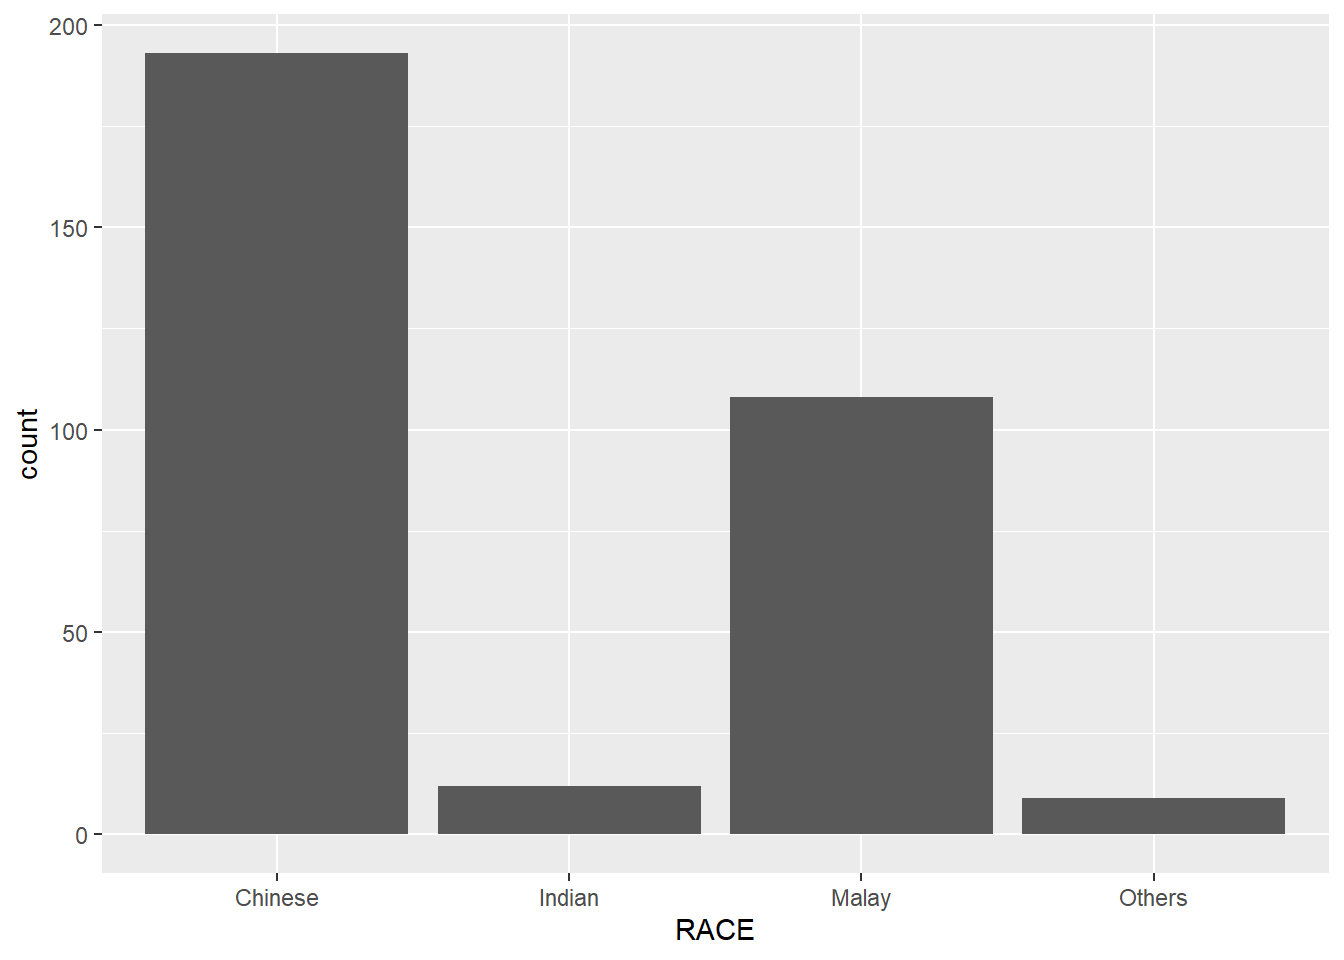
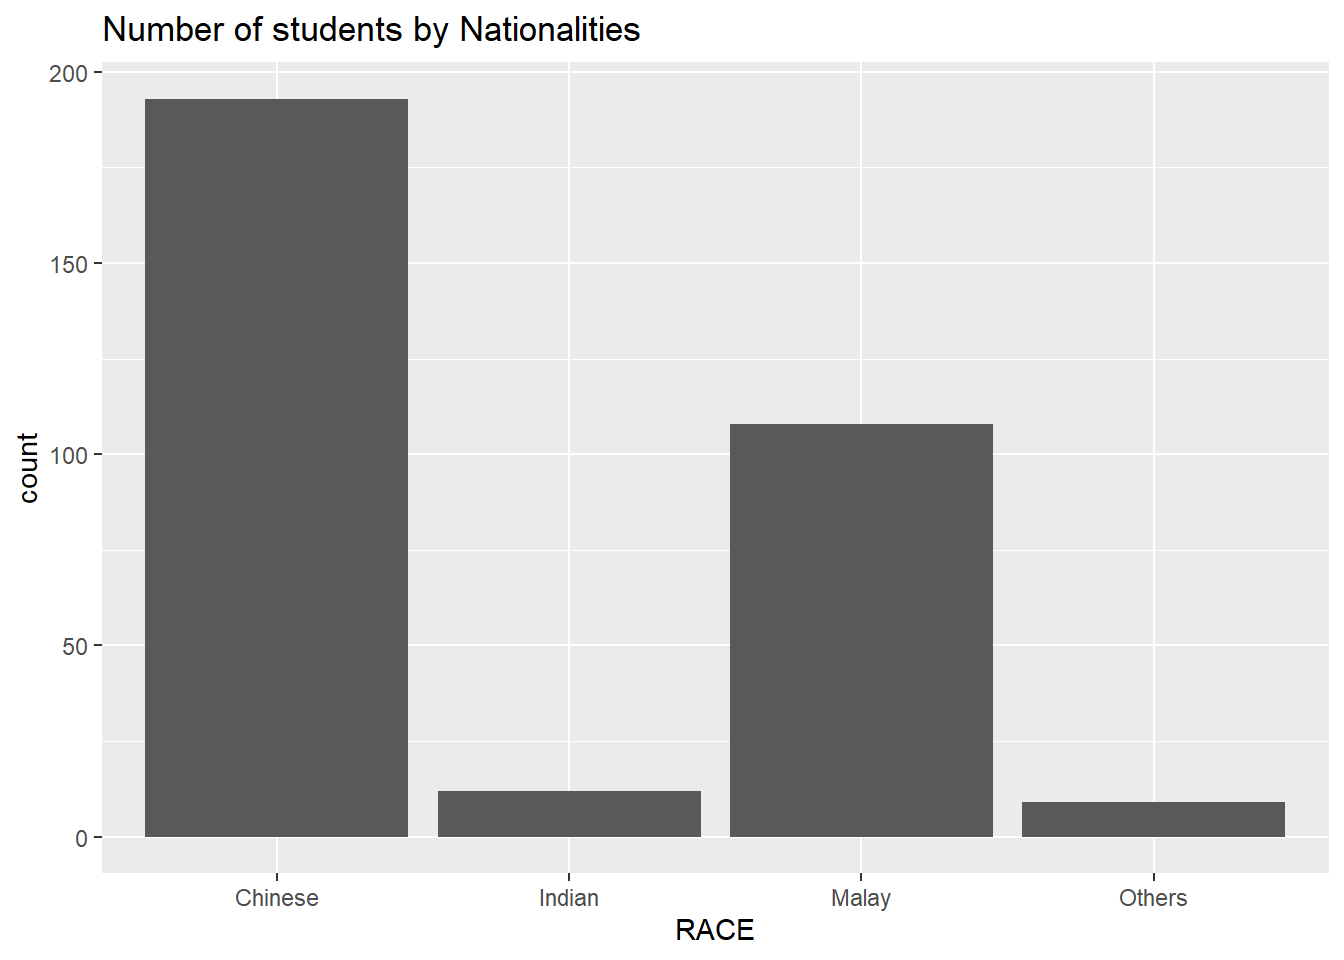
Commit after creating charts.

diff --git a/_site/Hands-on_Ex/Hands-on_Ex01/Hands-on_Ex01.html b/_site/Hands-on_Ex/Hands-on_Ex01/Hands-on_Ex01.html
@@ -231,13 +231,181 @@ dbl (3): ENGLISH, MATHS, SCIENCE
 <section id="plotting-a-simple-bar-chart" class="level1">
 <h1>Plotting a simple bar chart</h1>
 <div class="cell">
-<div class="code-copy-outer-scaffold"><div class="sourceCode cell-code" id="cb4"><pre class="sourceCode r code-with-copy"><code class="sourceCode r"><span id="cb4-1"><a href="#cb4-1" aria-hidden="true" tabindex="-1"></a><span class="fu">ggplot</span>(<span class="at">data =</span> exam_data,</span>
-<span id="cb4-2"><a href="#cb4-2" aria-hidden="true" tabindex="-1"></a>      <span class="fu">aes</span>(<span class="at">x =</span> RACE)) <span class="sc">+</span></span>
-<span id="cb4-3"><a href="#cb4-3" aria-hidden="true" tabindex="-1"></a>  <span class="fu">geom_bar</span>()</span></code></pre></div><button title="Copy to Clipboard" class="code-copy-button"><i class="bi"></i></button></div>
+<div class="code-copy-outer-scaffold"><div class="sourceCode cell-code" id="cb4"><pre class="sourceCode r code-with-copy"><code class="sourceCode r"><span id="cb4-1"><a href="#cb4-1" aria-hidden="true" tabindex="-1"></a><span class="fu">ggplot</span>(<span class="at">data=</span>exam_data, </span>
+<span id="cb4-2"><a href="#cb4-2" aria-hidden="true" tabindex="-1"></a>       <span class="fu">aes</span>(<span class="at">x=</span>RACE)) <span class="sc">+</span></span>
+<span id="cb4-3"><a href="#cb4-3" aria-hidden="true" tabindex="-1"></a>  <span class="fu">geom_bar</span>() <span class="sc">+</span></span>
+<span id="cb4-4"><a href="#cb4-4" aria-hidden="true" tabindex="-1"></a>  <span class="fu">ggtitle</span>(<span class="st">"Number of students by Nationalities"</span>)</span></code></pre></div><button title="Copy to Clipboard" class="code-copy-button"><i class="bi"></i></button></div>
 <div class="cell-output-display">
 <div>
 <figure class="figure">
 <p><img src="Hands-on_Ex01_files/figure-html/unnamed-chunk-3-1.png" class="img-fluid figure-img" width="672"></p>
+</figure>
+</div>
+</div>
+</div>
+<div class="cell">
+<div class="code-copy-outer-scaffold"><div class="sourceCode cell-code" id="cb5"><pre class="sourceCode r code-with-copy"><code class="sourceCode r"><span id="cb5-1"><a href="#cb5-1" aria-hidden="true" tabindex="-1"></a><span class="fu">ggplot</span>(<span class="at">data=</span>exam_data, <span class="fu">aes</span>(<span class="at">x =</span> MATHS)) <span class="sc">+</span></span>
+<span id="cb5-2"><a href="#cb5-2" aria-hidden="true" tabindex="-1"></a>  <span class="fu">geom_histogram</span>(<span class="at">bins=</span><span class="dv">10</span>, </span>
+<span id="cb5-3"><a href="#cb5-3" aria-hidden="true" tabindex="-1"></a>                 <span class="at">boundary =</span> <span class="dv">100</span>,</span>
+<span id="cb5-4"><a href="#cb5-4" aria-hidden="true" tabindex="-1"></a>                 <span class="at">color=</span><span class="st">"black"</span>, </span>
+<span id="cb5-5"><a href="#cb5-5" aria-hidden="true" tabindex="-1"></a>                 <span class="at">fill=</span><span class="st">"light blue"</span>) <span class="sc">+</span></span>
+<span id="cb5-6"><a href="#cb5-6" aria-hidden="true" tabindex="-1"></a>  <span class="fu">ggtitle</span>(<span class="st">"Distribution of Maths scores"</span>)</span></code></pre></div><button title="Copy to Clipboard" class="code-copy-button"><i class="bi"></i></button></div>
+<div class="cell-output-display">
+<div>
+<figure class="figure">
+<p><img src="Hands-on_Ex01_files/figure-html/unnamed-chunk-4-1.png" class="img-fluid figure-img" width="672"></p>
+</figure>
+</div>
+</div>
+</div>
+<div class="cell">
+<div class="code-copy-outer-scaffold"><div class="sourceCode cell-code" id="cb6"><pre class="sourceCode r code-with-copy"><code class="sourceCode r"><span id="cb6-1"><a href="#cb6-1" aria-hidden="true" tabindex="-1"></a><span class="fu">ggplot</span>(<span class="at">data=</span>exam_data, </span>
+<span id="cb6-2"><a href="#cb6-2" aria-hidden="true" tabindex="-1"></a>       <span class="fu">aes</span>(<span class="at">x =</span> MATHS)) <span class="sc">+</span></span>
+<span id="cb6-3"><a href="#cb6-3" aria-hidden="true" tabindex="-1"></a>  <span class="fu">geom_dotplot</span>(<span class="at">binwidth=</span><span class="fl">2.5</span>,         </span>
+<span id="cb6-4"><a href="#cb6-4" aria-hidden="true" tabindex="-1"></a>               <span class="at">dotsize =</span> <span class="fl">0.5</span>) <span class="sc">+</span>      </span>
+<span id="cb6-5"><a href="#cb6-5" aria-hidden="true" tabindex="-1"></a>  <span class="fu">scale_y_continuous</span>(<span class="cn">NULL</span>,           </span>
+<span id="cb6-6"><a href="#cb6-6" aria-hidden="true" tabindex="-1"></a>                     <span class="at">breaks =</span> <span class="cn">NULL</span>)  <span class="sc">+</span></span>
+<span id="cb6-7"><a href="#cb6-7" aria-hidden="true" tabindex="-1"></a>  <span class="fu">ggtitle</span>(<span class="st">"Distribution of Maths scores"</span>)</span></code></pre></div><button title="Copy to Clipboard" class="code-copy-button"><i class="bi"></i></button></div>
+<div class="cell-output-display">
+<div>
+<figure class="figure">
+<p><img src="Hands-on_Ex01_files/figure-html/unnamed-chunk-5-1.png" class="img-fluid figure-img" width="672"></p>
+</figure>
+</div>
+</div>
+</div>
+<div class="cell">
+<div class="code-copy-outer-scaffold"><div class="sourceCode cell-code" id="cb7"><pre class="sourceCode r code-with-copy"><code class="sourceCode r"><span id="cb7-1"><a href="#cb7-1" aria-hidden="true" tabindex="-1"></a><span class="fu">ggplot</span>(<span class="at">data=</span>exam_data, </span>
+<span id="cb7-2"><a href="#cb7-2" aria-hidden="true" tabindex="-1"></a>       <span class="fu">aes</span>(<span class="at">x=</span> MATHS, </span>
+<span id="cb7-3"><a href="#cb7-3" aria-hidden="true" tabindex="-1"></a>           <span class="at">fill =</span> GENDER)) <span class="sc">+</span></span>
+<span id="cb7-4"><a href="#cb7-4" aria-hidden="true" tabindex="-1"></a>  <span class="fu">geom_histogram</span>(<span class="at">bins=</span><span class="dv">20</span>, </span>
+<span id="cb7-5"><a href="#cb7-5" aria-hidden="true" tabindex="-1"></a>                 <span class="at">color=</span><span class="st">"grey30"</span>) <span class="sc">+</span></span>
+<span id="cb7-6"><a href="#cb7-6" aria-hidden="true" tabindex="-1"></a>  <span class="fu">ggtitle</span>(<span class="st">"Stacked Distribution of Maths scores by Gender"</span>)</span></code></pre></div><button title="Copy to Clipboard" class="code-copy-button"><i class="bi"></i></button></div>
+<div class="cell-output-display">
+<div>
+<figure class="figure">
+<p><img src="Hands-on_Ex01_files/figure-html/unnamed-chunk-6-1.png" class="img-fluid figure-img" width="672"></p>
+</figure>
+</div>
+</div>
+</div>
+<div class="cell">
+<div class="code-copy-outer-scaffold"><div class="sourceCode cell-code" id="cb8"><pre class="sourceCode r code-with-copy"><code class="sourceCode r"><span id="cb8-1"><a href="#cb8-1" aria-hidden="true" tabindex="-1"></a><span class="fu">ggplot</span>(<span class="at">data=</span>exam_data, </span>
+<span id="cb8-2"><a href="#cb8-2" aria-hidden="true" tabindex="-1"></a>       <span class="fu">aes</span>(<span class="at">x =</span> MATHS, </span>
+<span id="cb8-3"><a href="#cb8-3" aria-hidden="true" tabindex="-1"></a>           <span class="at">colour =</span> GENDER)) <span class="sc">+</span></span>
+<span id="cb8-4"><a href="#cb8-4" aria-hidden="true" tabindex="-1"></a>  <span class="fu">geom_density</span>() <span class="sc">+</span></span>
+<span id="cb8-5"><a href="#cb8-5" aria-hidden="true" tabindex="-1"></a>  <span class="fu">ggtitle</span>(<span class="st">"Density of Maths scores by Gender"</span>)</span></code></pre></div><button title="Copy to Clipboard" class="code-copy-button"><i class="bi"></i></button></div>
+<div class="cell-output-display">
+<div>
+<figure class="figure">
+<p><img src="Hands-on_Ex01_files/figure-html/unnamed-chunk-7-1.png" class="img-fluid figure-img" width="672"></p>
+</figure>
+</div>
+</div>
+</div>
+<div class="cell">
+<div class="code-copy-outer-scaffold"><div class="sourceCode cell-code" id="cb9"><pre class="sourceCode r code-with-copy"><code class="sourceCode r"><span id="cb9-1"><a href="#cb9-1" aria-hidden="true" tabindex="-1"></a><span class="fu">ggplot</span>(<span class="at">data=</span>exam_data, </span>
+<span id="cb9-2"><a href="#cb9-2" aria-hidden="true" tabindex="-1"></a>       <span class="fu">aes</span>(<span class="at">y =</span> MATHS, </span>
+<span id="cb9-3"><a href="#cb9-3" aria-hidden="true" tabindex="-1"></a>           <span class="at">x=</span> GENDER)) <span class="sc">+</span></span>
+<span id="cb9-4"><a href="#cb9-4" aria-hidden="true" tabindex="-1"></a>  <span class="fu">geom_boxplot</span>(<span class="at">notch=</span><span class="cn">TRUE</span>) <span class="sc">+</span></span>
+<span id="cb9-5"><a href="#cb9-5" aria-hidden="true" tabindex="-1"></a>  <span class="fu">ggtitle</span>(<span class="st">"Boxplot of Maths scores by Gender"</span>)</span></code></pre></div><button title="Copy to Clipboard" class="code-copy-button"><i class="bi"></i></button></div>
+<div class="cell-output-display">
+<div>
+<figure class="figure">
+<p><img src="Hands-on_Ex01_files/figure-html/unnamed-chunk-8-1.png" class="img-fluid figure-img" width="672"></p>
+</figure>
+</div>
+</div>
+</div>
+<div class="cell">
+<div class="code-copy-outer-scaffold"><div class="sourceCode cell-code" id="cb10"><pre class="sourceCode r code-with-copy"><code class="sourceCode r"><span id="cb10-1"><a href="#cb10-1" aria-hidden="true" tabindex="-1"></a><span class="fu">ggplot</span>(<span class="at">data=</span>exam_data, </span>
+<span id="cb10-2"><a href="#cb10-2" aria-hidden="true" tabindex="-1"></a>       <span class="fu">aes</span>(<span class="at">y =</span> MATHS, </span>
+<span id="cb10-3"><a href="#cb10-3" aria-hidden="true" tabindex="-1"></a>           <span class="at">x=</span> GENDER)) <span class="sc">+</span></span>
+<span id="cb10-4"><a href="#cb10-4" aria-hidden="true" tabindex="-1"></a>  <span class="fu">geom_violin</span>() <span class="sc">+</span></span>
+<span id="cb10-5"><a href="#cb10-5" aria-hidden="true" tabindex="-1"></a>  <span class="fu">ggtitle</span>(<span class="st">"Violin plot of Math scores by Gender"</span>)</span></code></pre></div><button title="Copy to Clipboard" class="code-copy-button"><i class="bi"></i></button></div>
+<div class="cell-output-display">
+<div>
+<figure class="figure">
+<p><img src="Hands-on_Ex01_files/figure-html/unnamed-chunk-9-1.png" class="img-fluid figure-img" width="672"></p>
+</figure>
+</div>
+</div>
+</div>
+<div class="cell">
+<div class="code-copy-outer-scaffold"><div class="sourceCode cell-code" id="cb11"><pre class="sourceCode r code-with-copy"><code class="sourceCode r"><span id="cb11-1"><a href="#cb11-1" aria-hidden="true" tabindex="-1"></a><span class="fu">ggplot</span>(<span class="at">data=</span>exam_data, </span>
+<span id="cb11-2"><a href="#cb11-2" aria-hidden="true" tabindex="-1"></a>       <span class="fu">aes</span>(<span class="at">x=</span> MATHS, </span>
+<span id="cb11-3"><a href="#cb11-3" aria-hidden="true" tabindex="-1"></a>           <span class="at">y=</span>ENGLISH)) <span class="sc">+</span></span>
+<span id="cb11-4"><a href="#cb11-4" aria-hidden="true" tabindex="-1"></a>  <span class="fu">geom_point</span>() <span class="sc">+</span></span>
+<span id="cb11-5"><a href="#cb11-5" aria-hidden="true" tabindex="-1"></a>  <span class="fu">geom_smooth</span>(<span class="at">method=</span>lm, </span>
+<span id="cb11-6"><a href="#cb11-6" aria-hidden="true" tabindex="-1"></a>              <span class="at">linewidth=</span><span class="fl">0.5</span>) <span class="sc">+</span></span>
+<span id="cb11-7"><a href="#cb11-7" aria-hidden="true" tabindex="-1"></a>  <span class="fu">ggtitle</span>(<span class="st">"Scatterplot between Math and English scores"</span>)</span></code></pre></div><button title="Copy to Clipboard" class="code-copy-button"><i class="bi"></i></button></div>
+<div class="cell-output cell-output-stderr">
+<pre><code>`geom_smooth()` using formula = 'y ~ x'</code></pre>
+</div>
+<div class="cell-output-display">
+<div>
+<figure class="figure">
+<p><img src="Hands-on_Ex01_files/figure-html/unnamed-chunk-10-1.png" class="img-fluid figure-img" width="672"></p>
+</figure>
+</div>
+</div>
+</div>
+<div class="cell">
+<div class="code-copy-outer-scaffold"><div class="sourceCode cell-code" id="cb13"><pre class="sourceCode r code-with-copy"><code class="sourceCode r"><span id="cb13-1"><a href="#cb13-1" aria-hidden="true" tabindex="-1"></a><span class="fu">ggplot</span>(<span class="at">data=</span>exam_data, </span>
+<span id="cb13-2"><a href="#cb13-2" aria-hidden="true" tabindex="-1"></a>       <span class="fu">aes</span>(<span class="at">y =</span> MATHS, </span>
+<span id="cb13-3"><a href="#cb13-3" aria-hidden="true" tabindex="-1"></a>           <span class="at">x=</span> GENDER)) <span class="sc">+</span></span>
+<span id="cb13-4"><a href="#cb13-4" aria-hidden="true" tabindex="-1"></a>  <span class="fu">geom_boxplot</span>() <span class="sc">+</span>                    </span>
+<span id="cb13-5"><a href="#cb13-5" aria-hidden="true" tabindex="-1"></a>  <span class="fu">geom_point</span>(<span class="at">position=</span><span class="st">"jitter"</span>, </span>
+<span id="cb13-6"><a href="#cb13-6" aria-hidden="true" tabindex="-1"></a>             <span class="at">size =</span> <span class="fl">0.5</span>) <span class="sc">+</span></span>
+<span id="cb13-7"><a href="#cb13-7" aria-hidden="true" tabindex="-1"></a>  <span class="fu">ggtitle</span>(<span class="st">"Scatter and box plots of Math scores by Gender"</span>)</span></code></pre></div><button title="Copy to Clipboard" class="code-copy-button"><i class="bi"></i></button></div>
+<div class="cell-output-display">
+<div>
+<figure class="figure">
+<p><img src="Hands-on_Ex01_files/figure-html/unnamed-chunk-11-1.png" class="img-fluid figure-img" width="672"></p>
+</figure>
+</div>
+</div>
+</div>
+<div class="cell">
+<div class="code-copy-outer-scaffold"><div class="sourceCode cell-code" id="cb14"><pre class="sourceCode r code-with-copy"><code class="sourceCode r"><span id="cb14-1"><a href="#cb14-1" aria-hidden="true" tabindex="-1"></a><span class="fu">ggplot</span>(<span class="at">data=</span>exam_data, </span>
+<span id="cb14-2"><a href="#cb14-2" aria-hidden="true" tabindex="-1"></a>       <span class="fu">aes</span>(<span class="at">y =</span> MATHS, <span class="at">x=</span> GENDER)) <span class="sc">+</span></span>
+<span id="cb14-3"><a href="#cb14-3" aria-hidden="true" tabindex="-1"></a>  <span class="fu">geom_boxplot</span>() <span class="sc">+</span></span>
+<span id="cb14-4"><a href="#cb14-4" aria-hidden="true" tabindex="-1"></a>  <span class="fu">stat_summary</span>(<span class="at">geom =</span> <span class="st">"point"</span>,       </span>
+<span id="cb14-5"><a href="#cb14-5" aria-hidden="true" tabindex="-1"></a>               <span class="at">fun =</span> <span class="st">"mean"</span>,         </span>
+<span id="cb14-6"><a href="#cb14-6" aria-hidden="true" tabindex="-1"></a>               <span class="at">colour =</span><span class="st">"red"</span>,        </span>
+<span id="cb14-7"><a href="#cb14-7" aria-hidden="true" tabindex="-1"></a>               <span class="at">size=</span><span class="dv">4</span>)               </span></code></pre></div><button title="Copy to Clipboard" class="code-copy-button"><i class="bi"></i></button></div>
+<div class="cell-output-display">
+<div>
+<figure class="figure">
+<p><img src="Hands-on_Ex01_files/figure-html/unnamed-chunk-12-1.png" class="img-fluid figure-img" width="672"></p>
+</figure>
+</div>
+</div>
+</div>
+<div class="cell">
+<div class="code-copy-outer-scaffold"><div class="sourceCode cell-code" id="cb15"><pre class="sourceCode r code-with-copy"><code class="sourceCode r"><span id="cb15-1"><a href="#cb15-1" aria-hidden="true" tabindex="-1"></a><span class="fu">ggplot</span>(<span class="at">data=</span>exam_data, </span>
+<span id="cb15-2"><a href="#cb15-2" aria-hidden="true" tabindex="-1"></a>       <span class="fu">aes</span>(<span class="at">x=</span> MATHS)) <span class="sc">+</span></span>
+<span id="cb15-3"><a href="#cb15-3" aria-hidden="true" tabindex="-1"></a>  <span class="fu">geom_histogram</span>(<span class="at">bins=</span><span class="dv">20</span>) <span class="sc">+</span></span>
+<span id="cb15-4"><a href="#cb15-4" aria-hidden="true" tabindex="-1"></a>  <span class="fu">facet_wrap</span>(<span class="sc">~</span> CLASS) <span class="sc">+</span></span>
+<span id="cb15-5"><a href="#cb15-5" aria-hidden="true" tabindex="-1"></a>  <span class="fu">ggtitle</span>(<span class="st">"facet_wrap()"</span>)</span></code></pre></div><button title="Copy to Clipboard" class="code-copy-button"><i class="bi"></i></button></div>
+<div class="cell-output-display">
+<div>
+<figure class="figure">
+<p><img src="Hands-on_Ex01_files/figure-html/unnamed-chunk-13-1.png" class="img-fluid figure-img" width="672"></p>
+</figure>
+</div>
+</div>
+</div>
+<div class="cell">
+<div class="code-copy-outer-scaffold"><div class="sourceCode cell-code" id="cb16"><pre class="sourceCode r code-with-copy"><code class="sourceCode r"><span id="cb16-1"><a href="#cb16-1" aria-hidden="true" tabindex="-1"></a><span class="fu">ggplot</span>(<span class="at">data=</span>exam_data, </span>
+<span id="cb16-2"><a href="#cb16-2" aria-hidden="true" tabindex="-1"></a>       <span class="fu">aes</span>(<span class="at">x=</span> MATHS)) <span class="sc">+</span></span>
+<span id="cb16-3"><a href="#cb16-3" aria-hidden="true" tabindex="-1"></a>  <span class="fu">geom_histogram</span>(<span class="at">bins=</span><span class="dv">20</span>) <span class="sc">+</span></span>
+<span id="cb16-4"><a href="#cb16-4" aria-hidden="true" tabindex="-1"></a>  <span class="fu">facet_grid</span>(<span class="sc">~</span> CLASS) <span class="sc">+</span></span>
+<span id="cb16-5"><a href="#cb16-5" aria-hidden="true" tabindex="-1"></a>  <span class="fu">ggtitle</span>(<span class="st">"facet_grid()"</span>)</span></code></pre></div><button title="Copy to Clipboard" class="code-copy-button"><i class="bi"></i></button></div>
+<div class="cell-output-display">
+<div>
+<figure class="figure">
+<p><img src="Hands-on_Ex01_files/figure-html/unnamed-chunk-14-1.png" class="img-fluid figure-img" width="672"></p>
 </figure>
 </div>
 </div>
